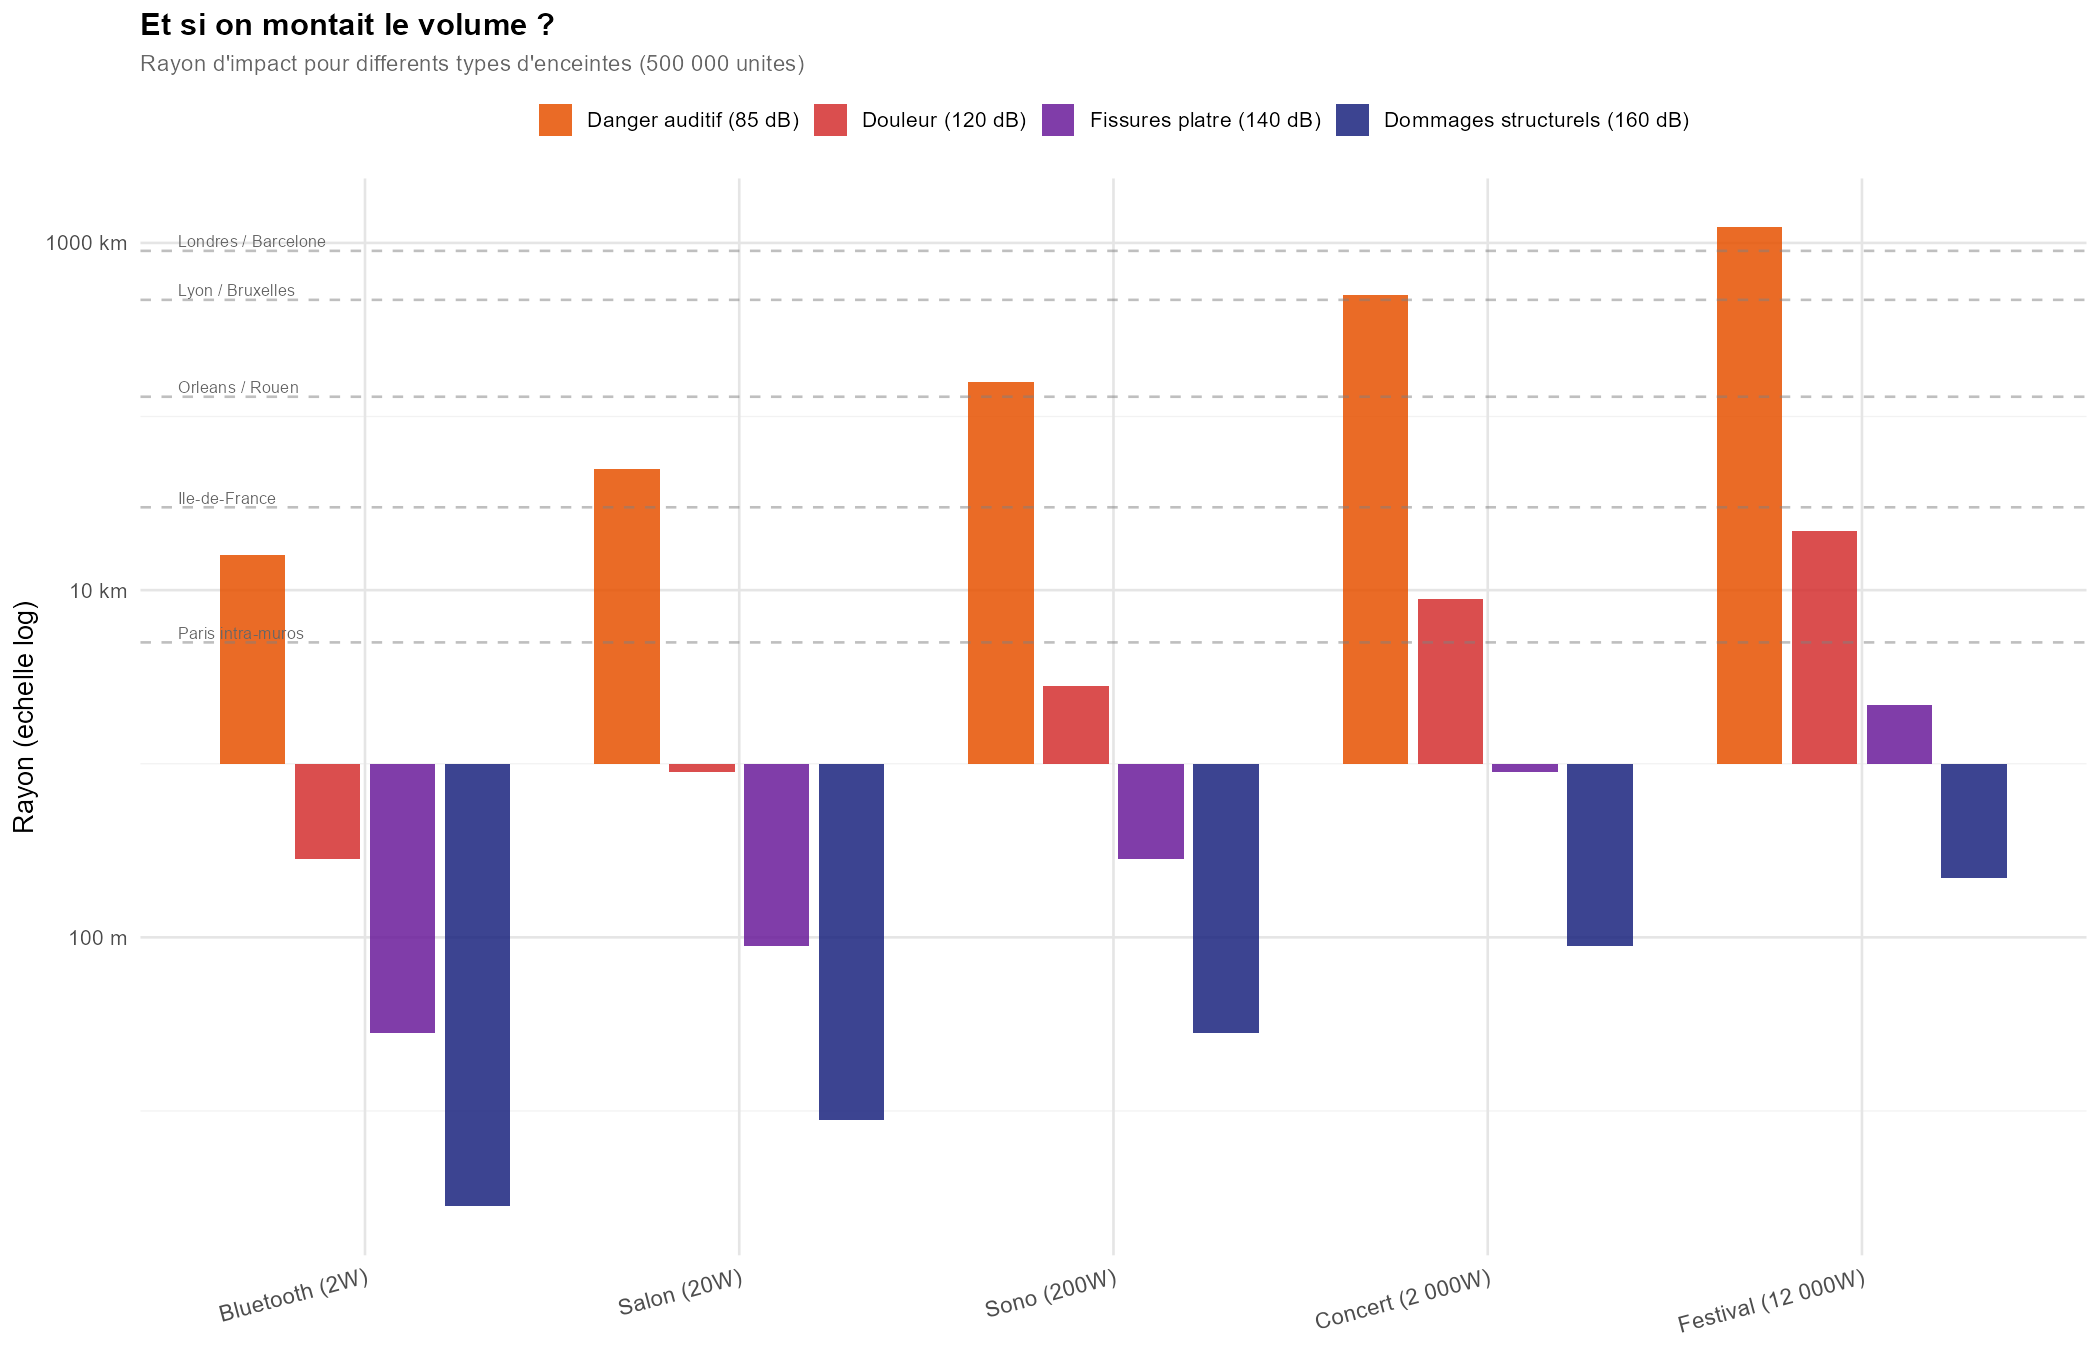
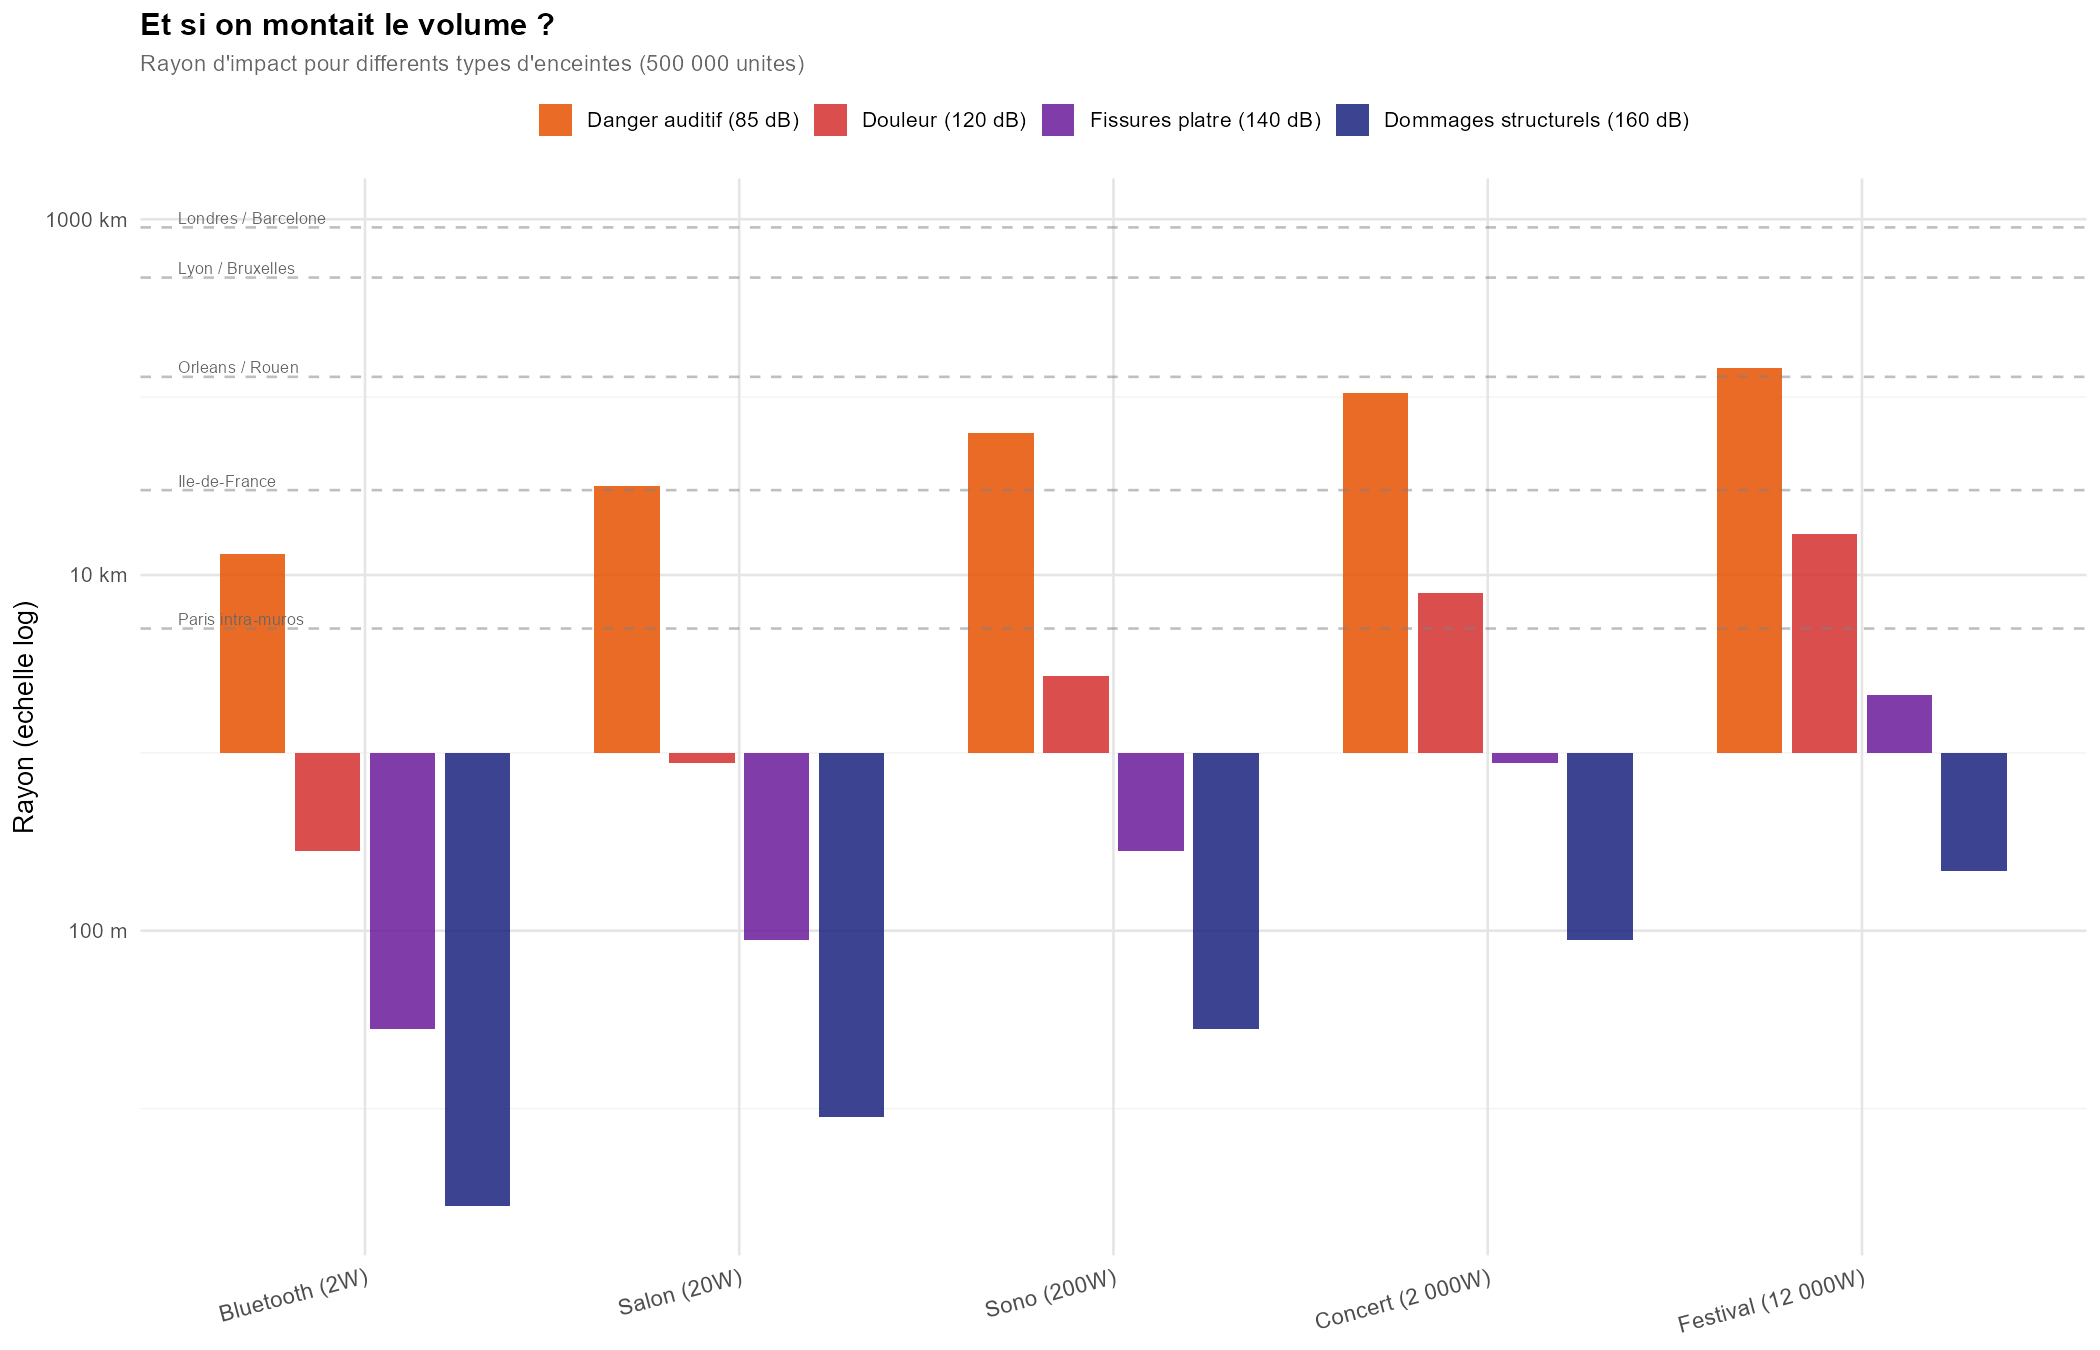
fix: update content and images for Spotify Tour Eiffel article; adjust metadata and sitemap last modified date

diff --git a/docs/articles/spotify-tour-eiffel/index.html b/docs/articles/spotify-tour-eiffel/index.html
@@ -170,7 +170,6 @@ window.Quarto = {
   </ul></li>
   <li><a href="#la-tour-eiffel-juke-box-géant" id="toc-la-tour-eiffel-juke-box-géant" class="nav-link" data-scroll-target="#la-tour-eiffel-juke-box-géant">La Tour Eiffel, juke-box géant</a>
   <ul class="collapse">
-  <li><a href="#répartition-par-genre-musical" id="toc-répartition-par-genre-musical" class="nav-link" data-scroll-target="#répartition-par-genre-musical">Répartition par genre musical</a></li>
   <li><a href="#les-quadrants-de-la-tour" id="toc-les-quadrants-de-la-tour" class="nav-link" data-scroll-target="#les-quadrants-de-la-tour">Les quadrants de la Tour</a></li>
   </ul></li>
   <li><a href="#le-son-nest-pas-le-même-dans-toutes-les-directions" id="toc-le-son-nest-pas-le-même-dans-toutes-les-directions" class="nav-link" data-scroll-target="#le-son-nest-pas-le-même-dans-toutes-les-directions">Le son n’est pas le même dans toutes les directions</a>
@@ -381,26 +380,16 @@ window.Quarto = {
 </section>
 <section id="la-tour-eiffel-juke-box-géant" class="level2">
 <h2 class="anchored" data-anchor-id="la-tour-eiffel-juke-box-géant">La Tour Eiffel, juke-box géant</h2>
-<section id="répartition-par-genre-musical" class="level3">
-<h3 class="anchored" data-anchor-id="répartition-par-genre-musical">Répartition par genre musical</h3>
-<p>Si on était des cochons, chaque haut-parleur diffuserait aléatoirement des chansons les unes à la suite des autres et ce mélange ferait une sorte de bruit blanc. Mais comme on est sympa, on respecte les proportions réelles d’écoute Spotify en France<a href="#fn9" class="footnote-ref" id="fnref9" role="doc-noteref"><sup>9</sup></a> et chaque (groupe de) haut-parleurs sera spécialisé dans un type de musique. Chaque genre se voit attribuer un <strong>quadrant</strong> de la Tour Eiffel, proportionnel à sa part d’écoute.</p>
-<div class="quarto-figure quarto-figure-center">
-<figure class="figure">
-<p><img src="graphe_genres.png" class="img-fluid figure-img"></p>
-<figcaption>Répartition des écoutes Spotify France par genre</figcaption>
-</figure>
-</div>
-<p>Le rap/hip-hop et la pop dominent largement, suivis du rock et de l’électro. Le métal représente 5% des écoutes, le classique 4%.</p>
-</section>
 <section id="les-quadrants-de-la-tour" class="level3">
 <h3 class="anchored" data-anchor-id="les-quadrants-de-la-tour">Les quadrants de la Tour</h3>
+<p>Si on était des cochons, chaque haut-parleur diffuserait aléatoirement des chansons les unes à la suite des autres et ce mélange ferait une sorte de bruit blanc. Mais comme on est sympa, on respecte les proportions réelles d’écoute Spotify en France<a href="#fn9" class="footnote-ref" id="fnref9" role="doc-noteref"><sup>9</sup></a> et chaque (groupe de) haut-parleurs sera spécialisé dans un type de musique. Chaque genre se voit attribuer un <strong>secteur angulaire</strong> de la Tour Eiffel, proportionnel à sa part d’écoute.</p>
 <div class="quarto-figure quarto-figure-center">
 <figure class="figure">
 <p><img src="graphe_quadrants.png" class="img-fluid figure-img"></p>
 <figcaption>Vue du dessus : chaque secteur de la Tour émet un genre</figcaption>
 </figure>
 </div>
-<p>Chaque secteur angulaire de la Tour Eiffel diffuse un genre différent. La puissance émise dans chaque direction est proportionnelle à la part d’écoute du genre.</p>
+<p>Le rap/hip-hop et la pop dominent largement (23% et 22%), suivis du rock et de l’électro (10% chacun). Le métal représente 5% des écoutes, le classique 4%. La puissance émise dans chaque direction est proportionnelle à la part d’écoute du genre.</p>
 <hr>
 </section>
 </section>

diff --git a/docs/articles/index.html b/docs/articles/index.html
@@ -212,7 +212,7 @@ window.Quarto = {
     </div>
 </div>
 <div class="list grid quarto-listing-cols-2">
[2 lines of base64/hex data omitted]
 <a href="../articles/spotify-tour-eiffel/index.html" class="quarto-grid-link">
 <div class="quarto-grid-item card h-100 card-left">
 <div class="card-body post-contents">

diff --git a/docs/index.html b/docs/index.html
@@ -212,7 +212,7 @@ window.Quarto = {
     </div>
 </div>
 <div class="list grid quarto-listing-cols-2">
[2 lines of base64/hex data omitted]
 <a href="./articles/spotify-tour-eiffel/index.html" class="quarto-grid-link">
 <div class="quarto-grid-item card h-100 card-left">
 <div class="card-body post-contents">
